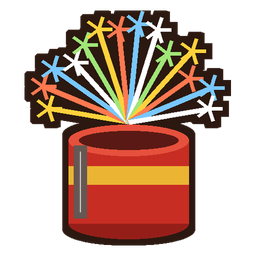
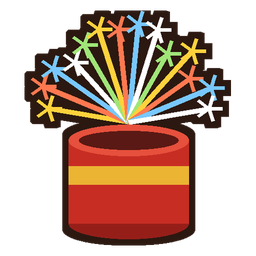
Rocket in blue and yellow, bigger pearl, no grey stripe
The upright rocket in red and white could be taken for the lighthouse
tile, so it is now blue and yellow. The pearl was smaller than the other
tiles and is drawn larger. A grey stripe left over from the drawing is
gone from the rocket and the fireworks. Not released until Jonas has
approved the icons.

Claude-Session: https://claude.ai/code/session_01NPdWPZWdpsnwHPQWEvx24M

Changed region(s): [[0.2812, 0.5625, 0.3438, 0.875]]

diff --git a/src/game/Match3Scene.ts b/src/game/Match3Scene.ts
@@ -247,7 +247,7 @@ export class Match3Scene extends Phaser.Scene {
     const name = kind === BOMB ? 'parla' : special === 'area' ? 'fyrverkeri' : 'raket';
     const glow = this.add.graphics();
     glow.fillStyle(0xffe7a3, 0.8).fillCircle(0, 0, size * 0.5);
-    const big = kind === BOMB ? size : special === 'area' ? size * 0.98 : size * 1.15;
+    const big = kind === BOMB ? size * 1.1 : special === 'area' ? size * 0.98 : size * 1.15;
     const shadow = this.add.image(0, 2 * this.k, `sp-${name}`).setDisplaySize(big, big).setTint(0x000000).setAlpha(0.25);
     const img = this.add.image(0, 0, `sp-${name}`).setDisplaySize(big, big);
     if (special === 'col') { shadow.setAngle(-90); img.setAngle(-90); }
